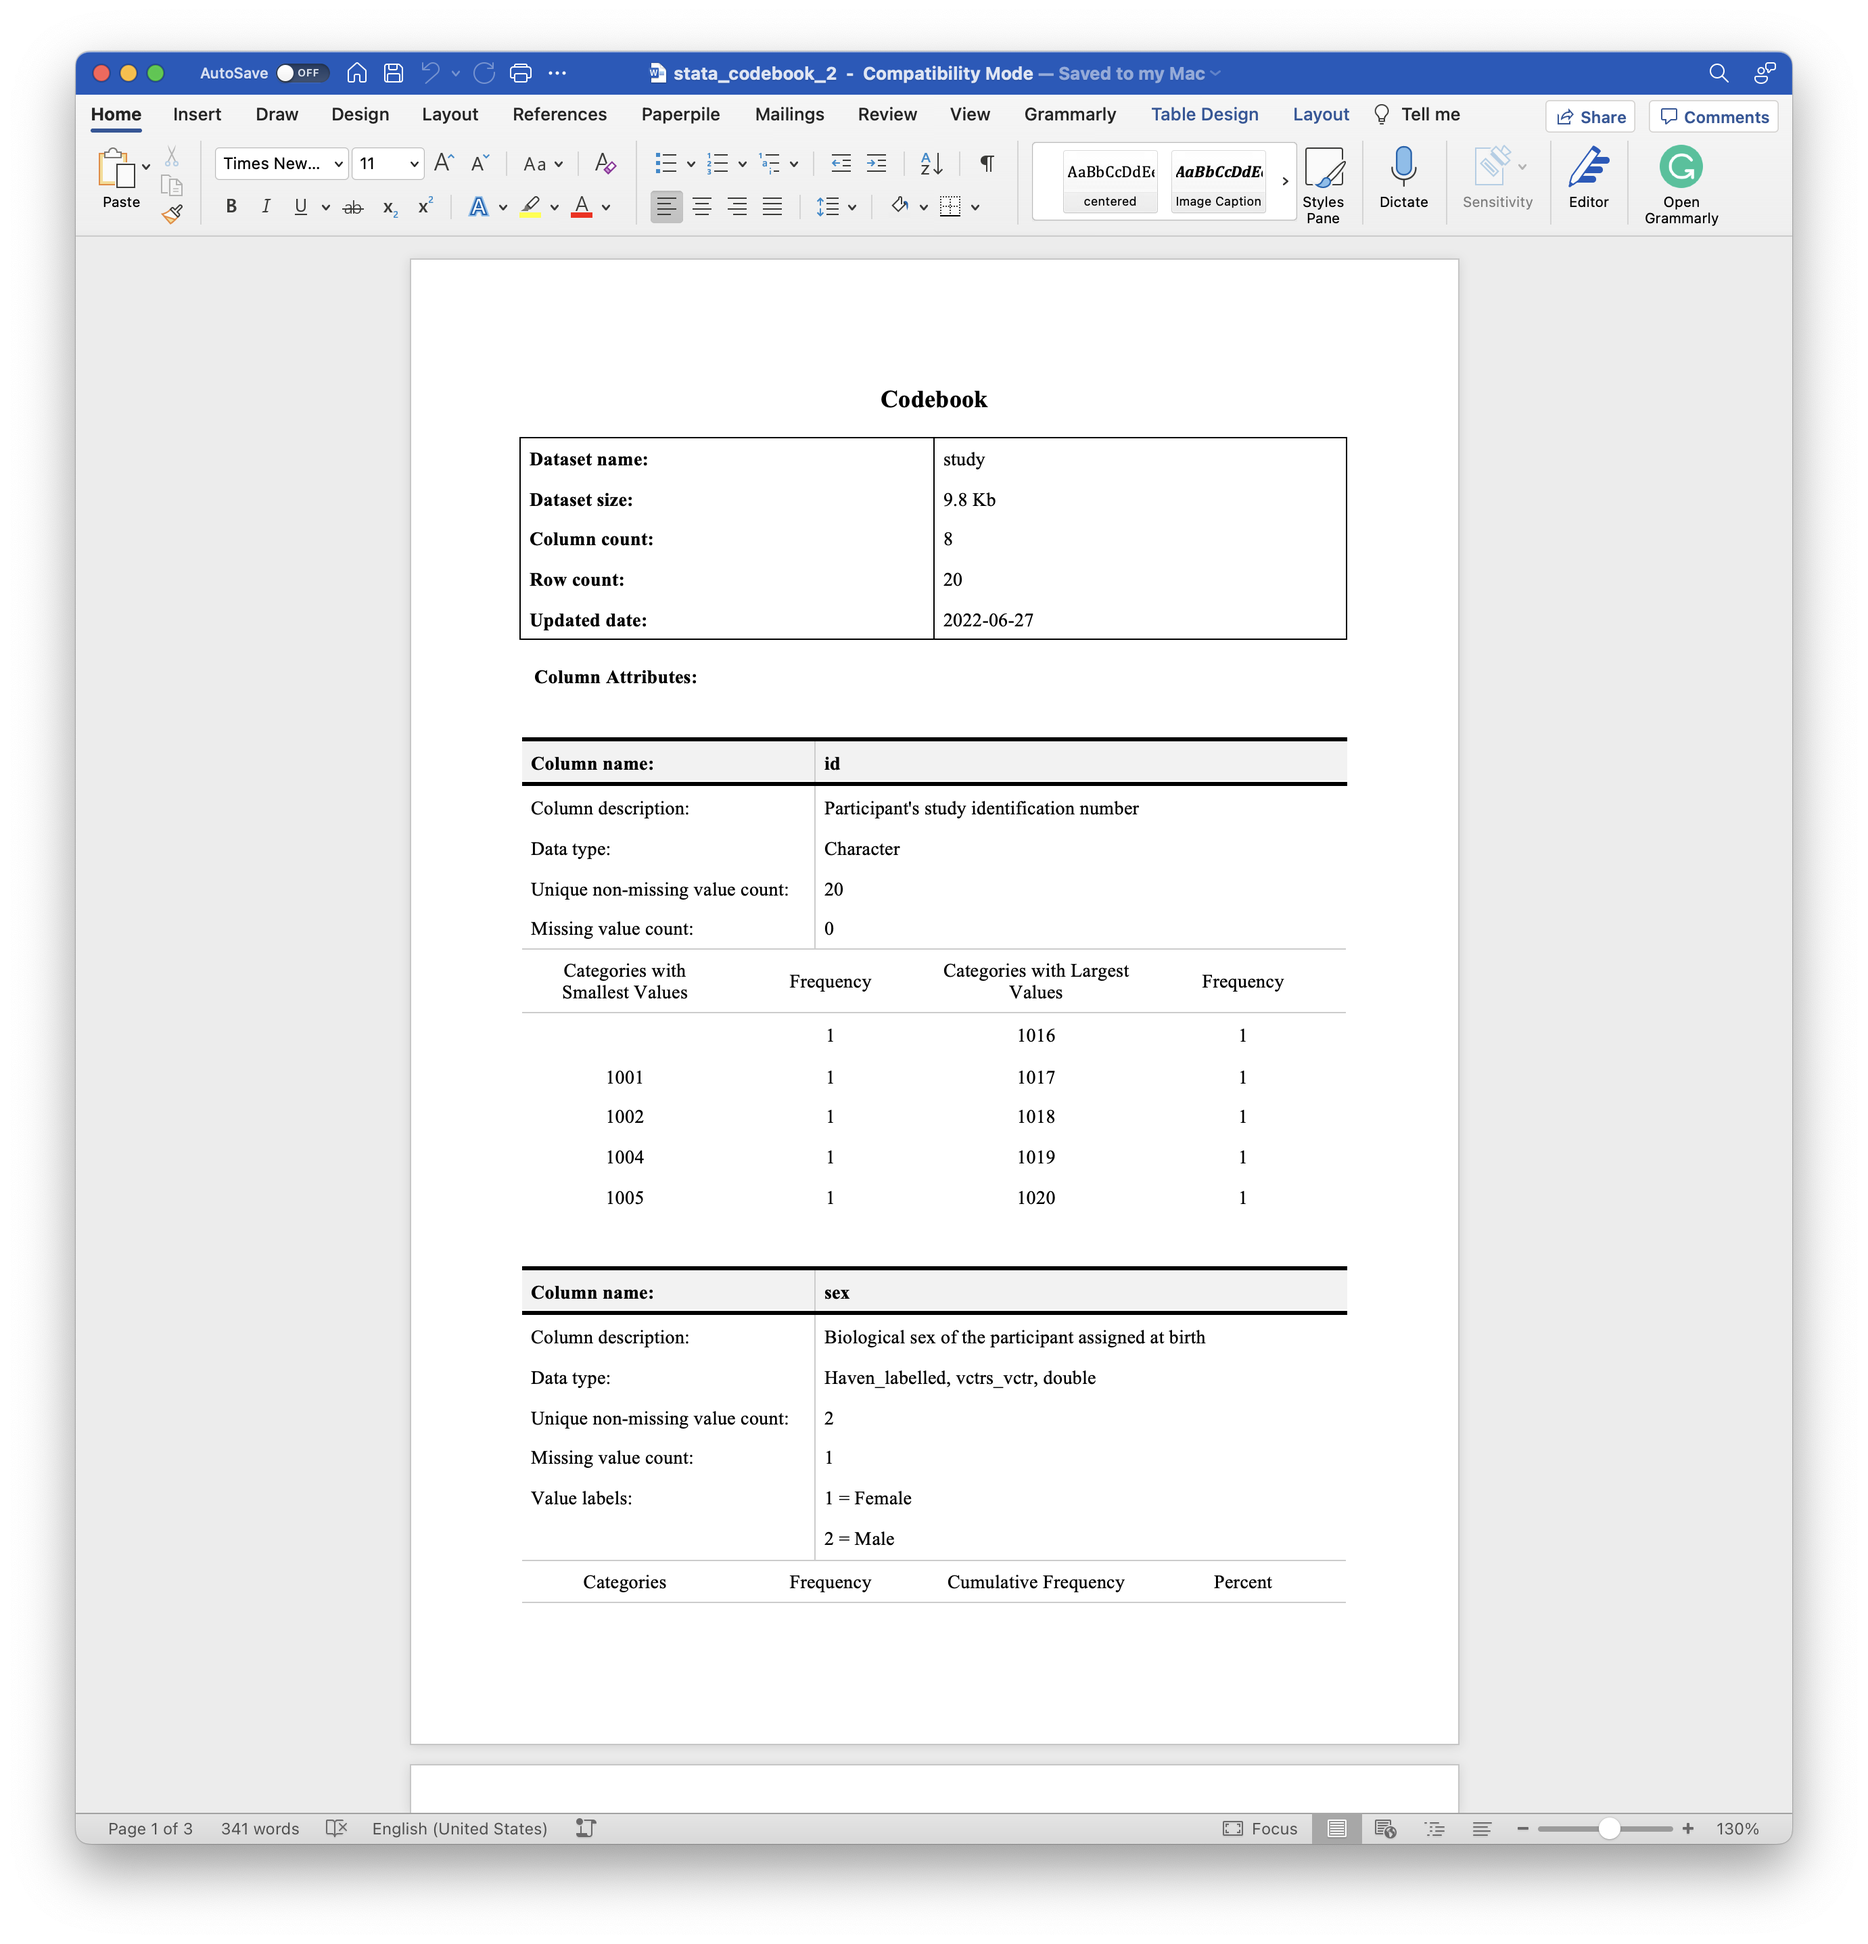
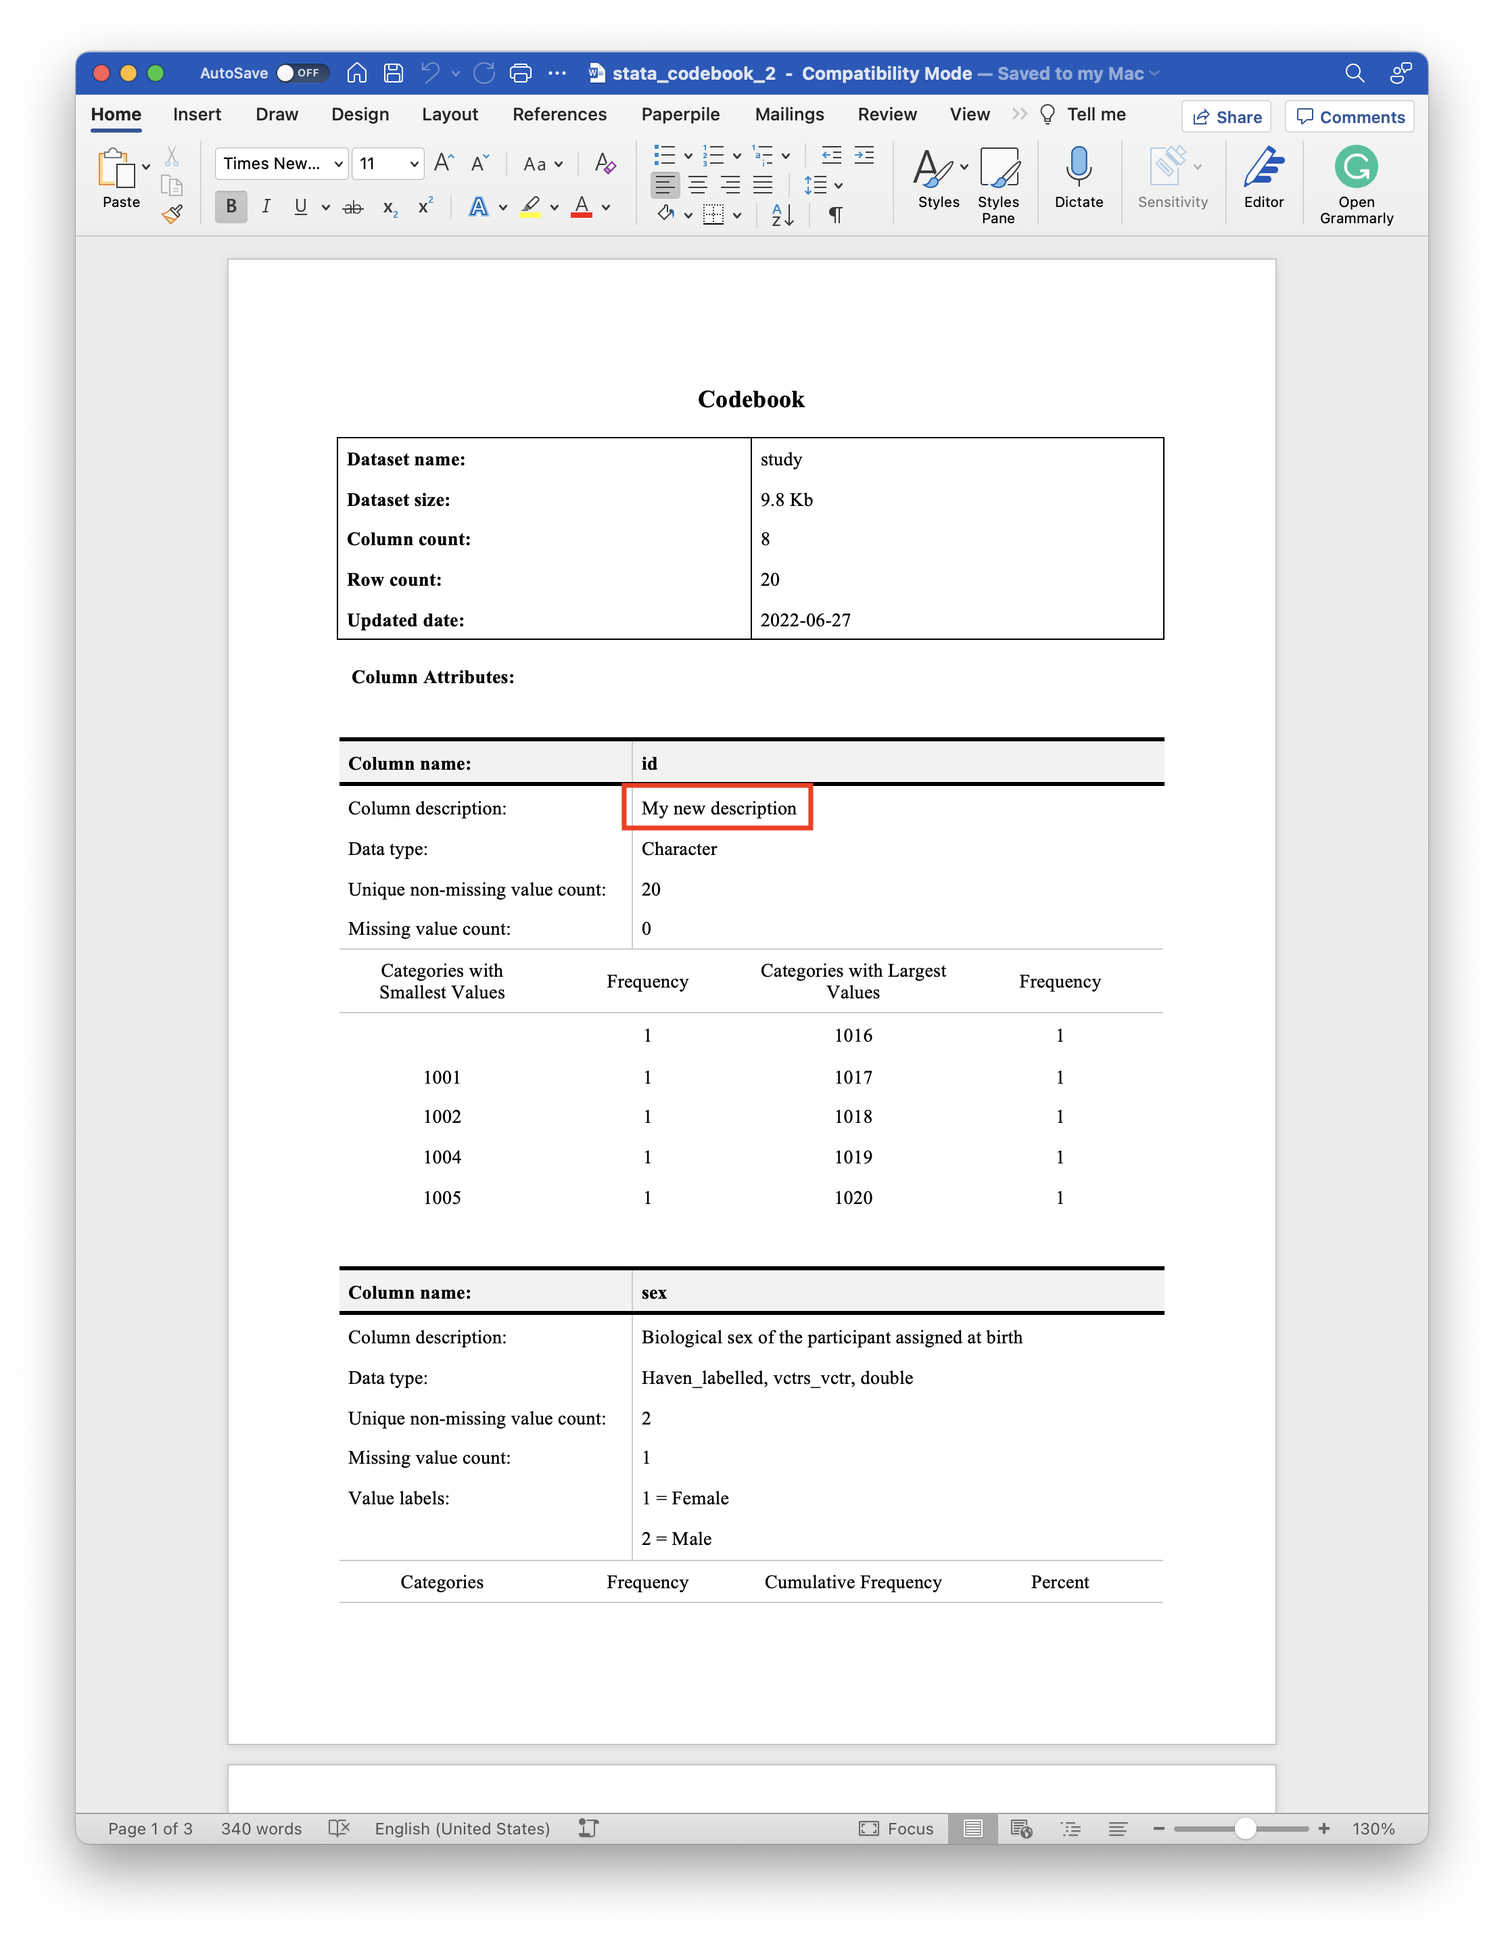
Use description instead of label if both exist
Discussed in #12

- If both "label" and "description" exist, then "description" should win. The idea is that if I have taken the time to manually type out a description, it should win out over whatever happened to be in label. If there is no description attribute, but there is a label attribute, then "description" should be set to "label".

diff --git a/README.md b/README.md
@@ -735,7 +735,7 @@ attribute. Which one will end up in the codebook document?
 
 ``` r
 study <- study %>% 
-  cb_add_col_attributes(id, description = "Test description")
+  cb_add_col_attributes(id, description = "My new description")
 #> The following attribute(s) are being added to a variable in the data frame for the first time: description. If you believe this/these attribute(s) were previously added, then check for a typo in the attribute name. If you are adding this/these attribute(s) for the first time, you can probably safely ignore this message.
 ```
 
@@ -748,7 +748,7 @@ attributes(study$id)
 #> [1] "%9s"
 #> 
 #> $description
-#> [1] "Test description"
+#> [1] "My new description"
 ```
 
 ``` r
@@ -767,5 +767,9 @@ above.
 
 As shown in the screenshot above, the `Column description` portion of
 the column attributes table is still automatically populated with the
-value of the each column’s `label` attribute. So, when a column has both
-a `label` and a `description` attribute, the `label` attribute wins out.
+value of the each column’s `label` attribute – **except where we
+manually added a description attribute**. So, when a column has both a
+`label` and a `description` attribute, the `description` attribute wins
+out. The idea is that if we have taken the time to manually type out a
+`description`, it should win out over whatever happened to be in
+`label`.
